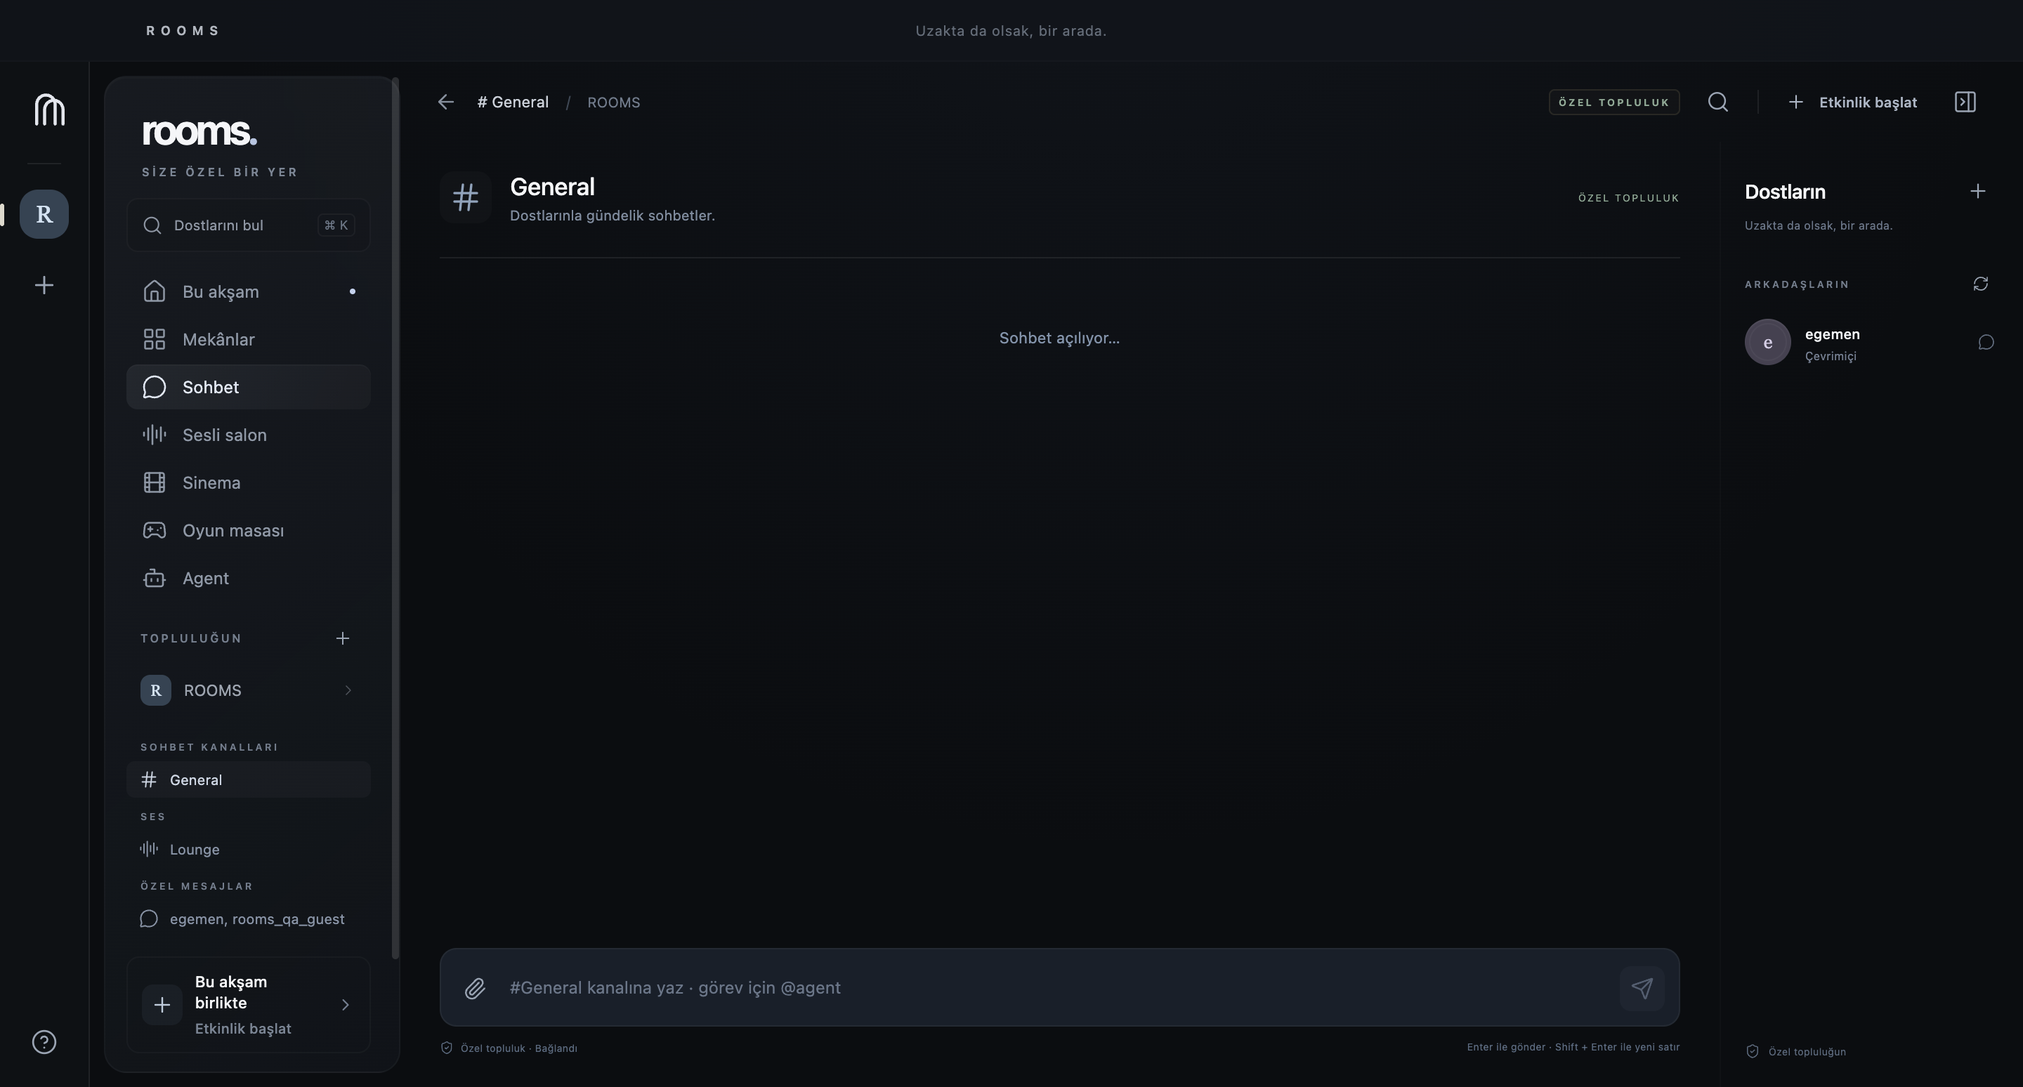
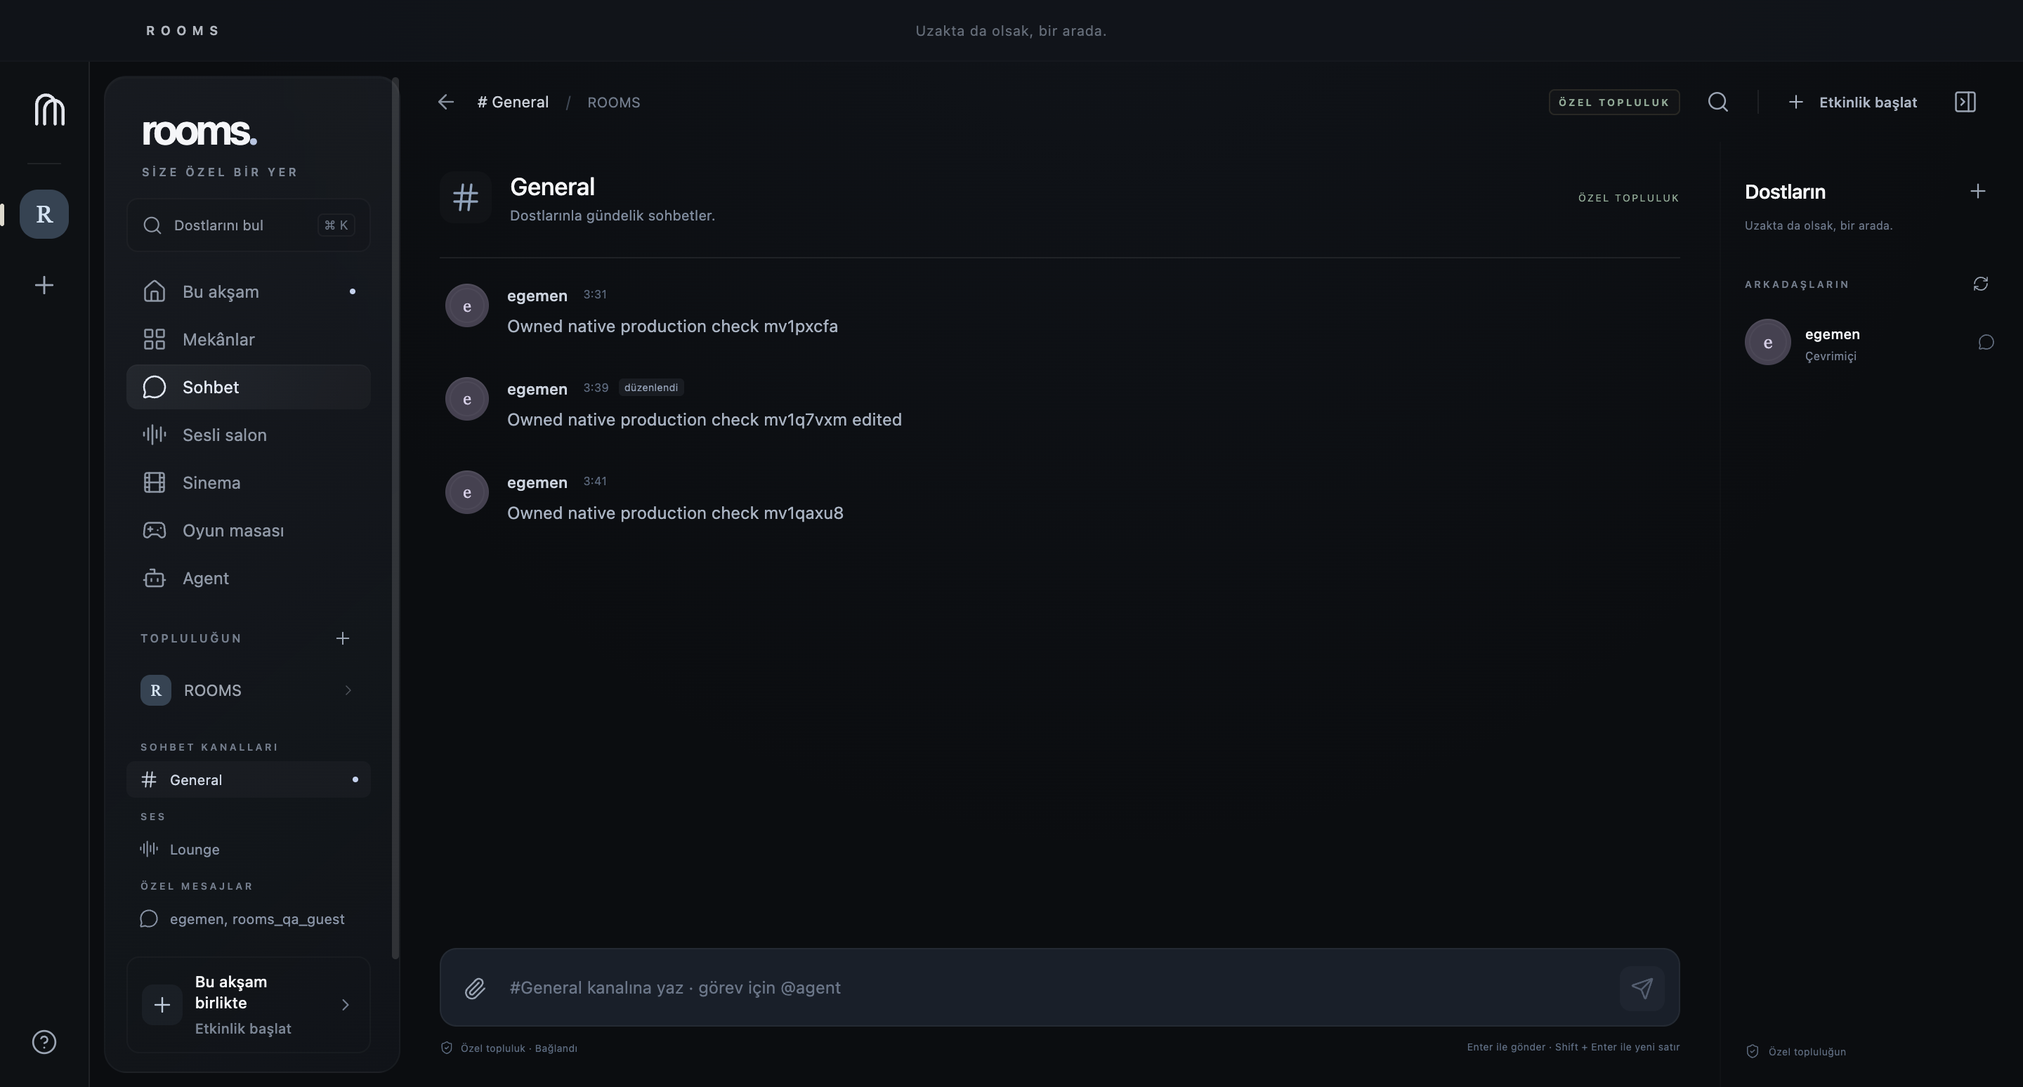
test(production): verify native onboarding recovery and official playback

Changed region(s): [[0.2188, 0.3411, 0.4375, 0.4031], [0.2188, 0.2481, 0.4062, 0.3101], [0.2188, 0.4341, 0.4062, 0.4961]]

diff --git a/infra/production/verify-restore.py b/infra/production/verify-restore.py
@@ -31,8 +31,9 @@ try:
         run(['docker','exec','-i',names[1],'psql','-v','ON_ERROR_STOP=1','-U','postgres','-d','rooms'],stdin=stream)
     mongo=json.loads(run(['docker','exec',names[0],'mongosh','--quiet','--eval',"const s=db.getSiblingDB('revolt');print(JSON.stringify({users:s.users.countDocuments({}),servers:s.servers.countDocuments({}),channels:s.channels.countDocuments({})}));"]).stdout)
     tables=run(['docker','exec',names[1],'psql','-U','postgres','-d','rooms','-tAc',"SELECT count(*) FROM information_schema.tables WHERE table_schema='public'"]).stdout.decode().strip()
-    if mongo['users']<3 or mongo['servers']<1 or mongo['channels']<2 or int(tables)<1: raise RuntimeError('Restored core records missing.')
-    result={'verifiedAt':datetime.now(timezone.utc).isoformat(),'databaseRestorePassed':True,'productionDatabasesModified':False,'network':'none','publishedPorts':False,'mongoCounts':mongo,'postgresPublicTables':int(tables),'uploadsAndTlsRestoreVerified':False}
+    activity=json.loads(run(['docker','exec',names[1],'psql','-U','postgres','-d','rooms','-tAc',"SELECT json_build_object('rooms',count(*),'polls',coalesce(sum(jsonb_array_length(state->'snapshot'->'polls')),0),'notes',coalesce(sum(jsonb_array_length(state->'snapshot'->'whiteboard')),0)) FROM rooms_activity_state"]).stdout)
+    if mongo['users']<3 or mongo['servers']<1 or mongo['channels']<2 or int(tables)<1 or activity['rooms']<1 or activity['polls']<1 or activity['notes']<1: raise RuntimeError('Restored core records missing.')
+    result={'verifiedAt':datetime.now(timezone.utc).isoformat(),'databaseRestorePassed':True,'productionDatabasesModified':False,'network':'none','publishedPorts':False,'mongoCounts':mongo,'postgresPublicTables':int(tables),'restoredActivityCounts':activity,'uploadsAndTlsRestoreVerified':False}
     Path('/opt/rooms/RESTORE_RESULTS.json').write_text(json.dumps(result,indent=2)+'\n')
     print(json.dumps(result))
 finally:

diff --git a/docs/OVERNIGHT_DEPLOYMENT_PLAN.md b/docs/OVERNIGHT_DEPLOYMENT_PLAN.md
@@ -18,9 +18,9 @@ Finish the actual product, not a demonstration or a container installation. A fr
 - Public production acceptance: 10/10 checks, including invite registration, public raw-registration denial, DM/friends, attachment delivery, authorized queue/poll/whiteboard/game state, deduplication, unsigned webhook denial and immediate membership revocation (`infra/production/ACCEPTANCE_RESULTS.json`).
 - Two Electron clients received synthetic audio/video through the public SFU using actual Stoat-authorized grants; mute, screen unpublish and signaling reconnect passed (`infra/production/MEDIA_RESULTS.json`). This does not certify physical microphone/camera/native screen-picker behavior.
 - Activity state survived a real writer-process stop/start (`infra/production/PERSISTENCE_RESULTS.json`). This does not certify full-machine recovery.
-- 94 tests across 21 files, typecheck, desktop build and service build passed after the production authorization adapter change.
+- 96 tests across 21 files, typecheck, desktop build and service build passed after the production authorization adapter change.
 - An encrypted core backup was created, copied to the Mac and decrypted privately. Database dumps were copied to an isolated restore staging directory. Isolated offline Mongo/PostgreSQL database restores passed without modifying production. Daily backup timer is installed (04:30 UTC). Upload/certificate restore is not yet accepted.
-- Existing Apple Silicon v0.1.0 private prerelease is unsigned. Native production login/screenshots, real YouTube playback, full games acceptance, restrictive-network TURN/TLS, personal providers and separate Agent deployment are not complete.
+- Apple Silicon v0.1.1 DMG/ZIP was built and actual packaged launch/local playback passed; signing remains unavailable. Native production login, invitation signup, send/edit/delete, session restart/logout and screenshots now pass. Shared YouTube synchronization, full games acceptance, restrictive-network TURN/TLS, personal providers and separate Agent deployment are not complete.
 
 ## Ordered execution checklist
 
@@ -35,15 +35,17 @@ Finish the actual product, not a demonstration or a container installation. A fr
 ### 2. Desktop connected to production
 
 - [x] Run two actual Electron clients against the real origin: native sign-in form, community/chat navigation and UI message send/delivery passed with zero renderer errors.
-- [ ] Finish native invitation/onboarding, edit/delete, attachments, presence, logout and restart restoration acceptance.
+- [x] Finish native invitation signup, consumed-invite rejection, edit/delete, logout and restart restoration acceptance.
+- [ ] Finish native attachment picker and live presence acceptance.
 - [x] Capture actual Electron screenshots and record version/platform. Keep fixture labels and honest disabled/error states.
-- [ ] Any substantial UI/interaction/Liquid Glass work must be directly implemented by an Astra/high subagent with concrete file ownership and running-app visual QA. Main agent owns integration/security/acceptance. Report unavailable Astra instead of substituting.
+- [ ] Main agent directly implements all UI/interaction/Liquid Glass and engineering work, with running-app visual QA. Owner explicitly disabled Astra/high delegation on 2026-10-10; this supersedes the previous design policy.
 - [ ] Verify voice remains connected across navigation and Cinema/Activity lifecycle; check grants, presenter ownership, logout and membership removal cleanup.
 
 ### 3. Shared activities and games
 
 - [ ] Verify two-client queue/playback state, late join, host transfer, command replay/deduplication and recovery after service restart.
-- [ ] Test real official YouTube playback and autoplay/blocked-video/reconnect behavior; served iframe HTML alone is insufficient.
+- [x] Verify real official YouTube playback, pause and seek on the public HTTPS origin.
+- [ ] Verify two-client YouTube synchronization and autoplay/blocked-video/reconnect behavior.
 - [ ] Complete real multiplayer acceptance for polls, whiteboard, Holdem, Blackjack, approved Batak variants and 101 Okey. Exercise hidden hands, bot substitution, disconnect grace, returning seats, timeout and history/statistics persistence.
 - [ ] Verify Cinema local-source authorization and screen-sharing workflow; do not distribute provider tokens or personal media URLs through shared state.
 
@@ -62,7 +64,7 @@ Finish the actual product, not a demonstration or a container installation. A fr
 
 ### 6. Release and handoff
 
-- [ ] Produce an updated Apple Silicon installer with the production fixes and complete native onboarding instructions; deliver credentials/invitations only through protected files.
+- [x] Produce an updated Apple Silicon installer with the production fixes and complete native onboarding instructions; deliver credentials/invitations only through protected files.
 - [ ] Complete Developer ID signing/notarization/stapling and signed updater when the owner's signing identity is available. Clearly label unsigned builds.
 - [ ] Run fresh-install/update and sustained M1/8 GB performance checks; keep Windows validation deferred and explicit.
 - [ ] Update implementation evidence and commit/push source, documentation and sanitized results to the authorized private GitHub repository in meaningful commits with actual current timestamps.
@@ -70,7 +72,7 @@ Finish the actual product, not a demonstration or a container installation. A fr
 
 ## Authorized quota-reset and continuation policy
 
-The owner explicitly authorized using the account's existing free full usage reset when the weekly quota is exhausted, then continuing this plan. At this checkpoint weekly usage is 98% and one free Full reset entitlement is available.
+The owner explicitly authorized using the account's existing free full usage reset when the weekly quota is exhausted, then continuing this plan. At the latest checkpoint weekly usage is 100%, while ordinary usage was still allowed and one free Full reset entitlement is available.
 
 1. Continue authorized work while ordinary usage is available. Do not consume the reset prematurely.
 2. Before exhaustion, persist completed tasks, failing checks, active operations and the next concrete action in `docs/CONTINUATION_CHECKPOINT.md`. Keep passwords, tokens, private keys and live invitation codes out of documentation/Git.

diff --git a/docs/CONTINUATION_CHECKPOINT.md b/docs/CONTINUATION_CHECKPOINT.md
@@ -4,7 +4,7 @@ Read docs/OVERNIGHT_DEPLOYMENT_PLAN.md and AGENTS.md first. Current owner wants 
 
 ## Next concrete action
 
-Two actual Electron clients now passed native production sign-in and UI message send/delivery with zero renderer errors; screenshots are under docs/screenshots/production. Next: finish native invitation/session restart/edit/delete acceptance, then actual Activity/media acceptance. Database restore, find-only authorization role denial, daily backup timer and direct certificate reload now pass. Temporary offline restore containers were removed. Upload/certificate restore and full-host reboot remain unverified.
+Two actual Electron clients now passed native production sign-in and UI message send/delivery with zero renderer errors; screenshots are under docs/screenshots/production. Native invitation signup, consumed invitation rejection, edit/delete, restart restoration and logout now PASS. Next: actual two-client Activity/media acceptance. Database restore, find-only authorization role denial, daily backup timer and direct certificate reload now pass. Temporary offline restore containers were removed. Upload/certificate restore and full-host reboot remain unverified.
 
 ## Access and private state
 
@@ -14,7 +14,7 @@ Private local data is under `.local/production/` (gitignored). It contains boots
 
 ## Already passed
 
-Social 8 checks; production 10 checks; two-client synthetic public-SFU transport; Activity writer-process persistence; 94 unit tests; typecheck and build; short-lived IP certificate renewal dry run. Refer to sanitized JSON results under infra/stoat and infra/production. No physical-device, real YouTube playback, separate Agent, provider-account, signed-release or full-host-reboot acceptance has been claimed.
+Social 8 checks; production 10 checks; two-client synthetic public-SFU transport; Activity writer-process persistence; 96 unit tests; typecheck and build; short-lived IP certificate renewal dry run. Refer to sanitized JSON results under infra/stoat and infra/production. Official public YouTube player playback, pause and seek now pass; shared player synchronization remains unverified. No physical-device, separate Agent, provider-account, signed-release or full-host-reboot acceptance has been claimed.
 
 ## Useful commands
 
@@ -28,3 +28,9 @@ Social 8 checks; production 10 checks; two-client synthetic public-SFU transport
 Production deployment, scoped authorization adapter, evidence and continuation plan are committed and pushed through 4f77482; inspect latest Git state for subsequent desktop acceptance commits. Check git status before editing. Commit meaningful source/runbook/evidence groups and push to the already authorized private egemenmermer/rooms main branch. Exclude .local, generated bytecode, secrets and deployment configuration containing credentials. Use current timestamps.
 
 Continue through the ordered plan. Keep this checkpoint current, including actual failures and next action. Do not equate healthy containers or synthetic audio with a finished product.
+
+## Latest owner steering
+
+On 2026-10-10 the owner disabled Astra/high delegation and requested main-agent-only implementation, including all design. AGENTS.md is updated. Existing production_onboarding subagent completed before this change; do not spawn another. Weekly usage displays 100% but ordinaryUsageAllowed was still true. One free Full reset remains available. No documented reset mutation exists and CUA explicitly blocks com.openai.codex; manual reset was requested asynchronously. Continue while allowed without claiming an automatic reset.
+
+Latest: native login/send/edit/delete/restart restore/logout and new-account invitation signup PASS after bucket-aware REST backpressure. Full build and 96 tests pass. Rebuilt access/Activity bundles are deployed and healthy. Official public YouTube sample playback, pause and seek PASS; shared synchronization is not yet accepted. The first click selector was wrong, not an actual playback failure. Unsigned Apple Silicon v0.1.1 DMG/ZIP built; actual packaged launch, current source byte matching and bundled local playback PASS. Protected six-invitation handoff exists at `.local/production/FRIENDS_ACCESS.md` (0600); never commit its contents. Next: save/push these changes and publish the clearly unsigned private preview, then real shared Activity and remaining recovery/media acceptance.

diff --git a/docs/IMPLEMENTATION_PROGRESS.md b/docs/IMPLEMENTATION_PROGRESS.md
@@ -75,3 +75,11 @@ Production adapters authenticate via upstream REST and read fresh channel/server
 Remaining full-product gates are tracked in `OVERNIGHT_DEPLOYMENT_PLAN.md`: real native desktop production acceptance/screenshots, complete multiplayer games, actual YouTube playback, physical devices and restrictive-network relay, separate Agent host/accounts, personal providers and signed distribution. The current-thread hourly continuation is enabled; the owner authorized the one existing free usage reset at weekly exhaustion, not paid purchases. This authorization does not prove an automatic reset is available or that the product is finished.
 
 Native production desktop acceptance: `node scripts/verify-production-desktop.mjs` passed on darwin/arm64: two actual Electron clients sign in through the application form against the public core and send/receive a message through the chat UI, with zero renderer errors. Screenshots are `docs/screenshots/production/{owner-chat,guest-chat,home}.png`; test message was removed. Native device and session-restart checks remain unverified.
+
+## 2026-10-10 — production desktop and unsigned 0.1.1
+
+The owner disabled Astra delegation; all subsequent design and engineering belong to the main agent. The completed onboarding changes include a production origin preset, working invitation registration/login, keyboard focus and precise Turkish errors. Actual native production acceptance passed invitation signup, consumed-ticket rejection, two-client message send/edit/delete, session restoration after process restart and logout cleanup, with zero renderer errors.
+
+Native editing exposed upstream channel-bucket HTTP 429 responses after rapid read-marker traffic. The typed adapter now serializes matching REST buckets, respects bounded upstream reset metadata and only retries explicit pre-route 429 rejection. It does not retry ambiguous network or server failures. Tests cover exhausted bucket backpressure and mutation retry boundaries. `pnpm typecheck`, `pnpm test` (96 tests / 21 files), `pnpm build` and `pnpm services:build` passed. Rebuilt access and Activity bundles were deployed and healthy.
+
+The actual official YouTube documentation sample on the public HTTPS player reached playback, pause and seek. Shared synchronization remains unverified. Database restore evidence now includes persisted polls and whiteboard notes. Apple Silicon unsigned v0.1.1 DMG/ZIP built successfully; `node scripts/verify-package.mjs` passed actual packaged launch, matching bundled source and local video advancement. Developer ID, notarization, physical-device acceptance and separate Agent host remain prerequisites. Private credentials and six single-use delivery invitations are in a gitignored 0600 handoff file.

diff --git a/AGENTS.md b/AGENTS.md
@@ -1,12 +1,11 @@
 # ROOMS project instructions
 
-## Design ownership — persistent user preference
-- For every substantial UI, interaction, animation, visual-system, or Liquid Glass change, delegate direct implementation to a subagent using `gpt-6-astra` with reasoning effort `high`.
-- This is an implementation role, not a read-only review. Give the designer ownership of concrete UI files and require working interactions and visual QA in the running Electron app.
+## Implementation ownership — persistent user preference
+- As explicitly requested on 2026-10-10, the main agent implements all work, including UI, interactions, animations and Liquid Glass. Do not delegate to Astra/high or open design subagents unless the user explicitly re-enables delegation.
+- This supersedes earlier Astra/high design-ownership requirements in historical milestone and continuation documents.
 - Read `docs/reference/ROOMS_DESKTOP_MASTER_PROMPT.md` in full and study both visual-reference files before implementing product changes.
 - macOS 14+ and Apple Silicon come first. Preserve Windows compatibility without claiming Windows validation on macOS.
-- Keep the main agent responsible for architecture, security, real integrations, acceptance testing, and final verification. Assign non-overlapping file ownership to concurrent agents.
-- If Astra/high is unavailable, report it instead of silently substituting another model.
+- Main agent owns product design, architecture, security, real integrations, visual QA, acceptance testing and final verification.
 
 ## Product and engineering
 - Communicate with the user in Turkish. Write code, comments, and technical documents in English.

diff --git a/docs/REMAINING_PHASES_PLAN.md b/docs/REMAINING_PHASES_PLAN.md
@@ -3,7 +3,7 @@
 Approved by the user on 2026-10-08. This supersedes the original Spacebar choice, English-first UI and Windows-first release; retain the original brief as reference.
 
 ## Delivery policy
-Mac 14+ Apple Silicon first. Keep Electron + React and original cinematic design. Every substantial UI change is implemented directly by GPT-6 Astra/high. Main owns architecture, privileged operations, integration and final verification. No first friends release until every release acceptance gate passes. Labels: VERIFIED WORKING, IMPLEMENTED BUT UNVERIFIED, BLOCKED. Tests on a single host are not two physical computer validation.
+Mac 14+ Apple Silicon first. Keep Electron + React and original cinematic design. As updated by the owner on 2026-10-10, main agent directly implements all design and engineering; Astra/high delegation is disabled. Main owns privileged operations, integration, visual QA and final verification. No first friends release until every release acceptance gate passes. Labels: VERIFIED WORKING, IMPLEMENTED BUT UNVERIFIED, BLOCKED. Tests on a single host are not two physical computer validation.
 
 ## A — Stoat community
 Use unmodified pinned upstream Stoat behind provider-neutral typed domain. Opaque IDs, real REST/events auth, channels, messaging, DMs, presence, permissions, block/moderation. Distinguish account registration invites from community invites. Reauthenticate rather than sending legacy credentials to Stoat. Preserve Spacebar data/evidence as rollback until new acceptance passes. Two actual accounts plus an unauthorized identity must prove message delivery, permissions and reconnect.

diff --git a/docs/MILESTONES_0_3.md b/docs/MILESTONES_0_3.md
@@ -3,7 +3,7 @@
 ## Outcome and ownership
 Build a macOS 14+/Apple Silicon private Electron clubhouse. By M3 two distinct users must exchange actual Spacebar messages, join voice, and receive an explicitly selected screen/window through LiveKit. YouTube synchronization, IPTV, Real-Debrid, shared games, signed updates and production release remain M4–M7.
 
-The implementing designer is always a `gpt-6-astra` subagent with reasoning `high`. It owns UI components, CSS, interaction craft and actual visual QA. The main agent owns architecture, security, integration and final acceptance. This policy persists in root AGENTS.md. Use English application code/docs and Turkish user communication.
+Ownership updated by the user on 2026-10-10: the main agent implements UI, CSS, interaction craft, architecture, security, integrations and actual visual/final QA. Astra/high delegation is disabled; this supersedes the initial designer assignment. Use English application code/docs and Turkish user communication.
 
 ## Architecture
 Electron + React + strict TypeScript + Vite, pnpm workspace, React Router, Zustand for UI, TanStack Query for server state. Upstream pinned Spacebar with a separate adapter is the social identity and permissions authority. Self-hosted LiveKit behind RealtimeMediaProvider supplies audio/video/screen sharing. A small Fastify access service validates membership and issues short-lived room tokens; it never redistributes personal media credentials. PostgreSQL and Docker Compose provide local reproducibility. Bind development ports to loopback.
